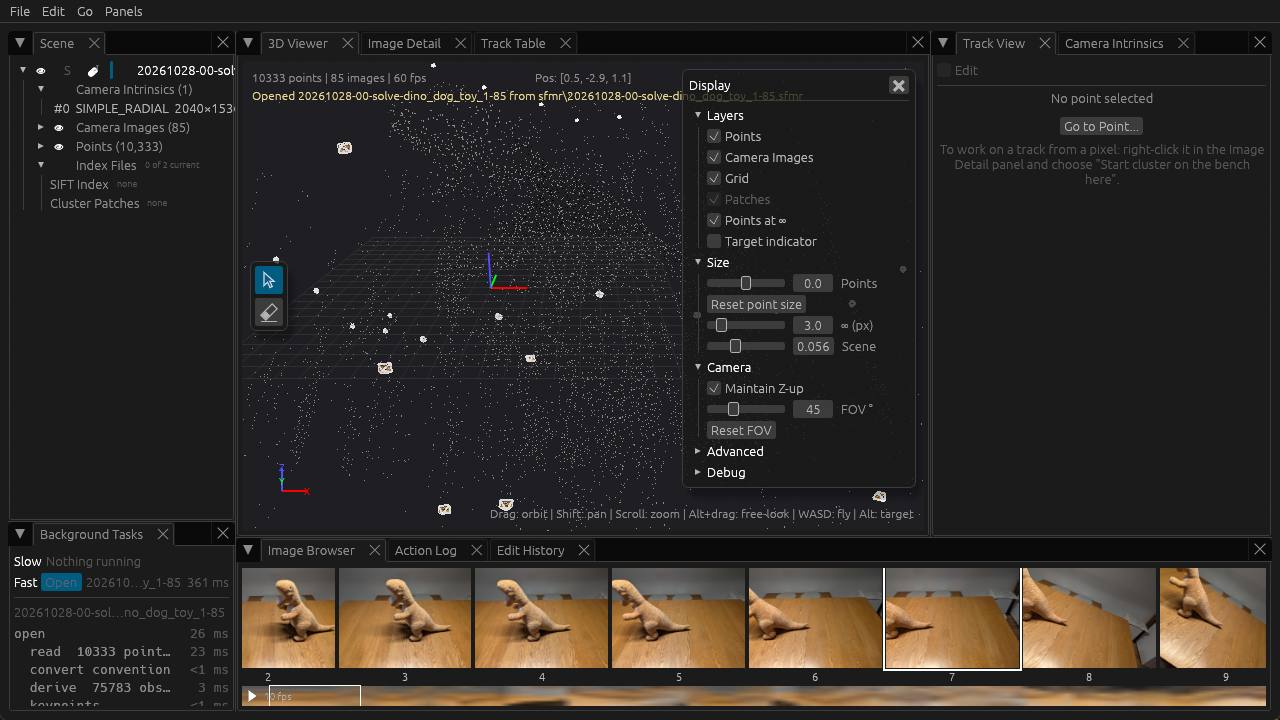
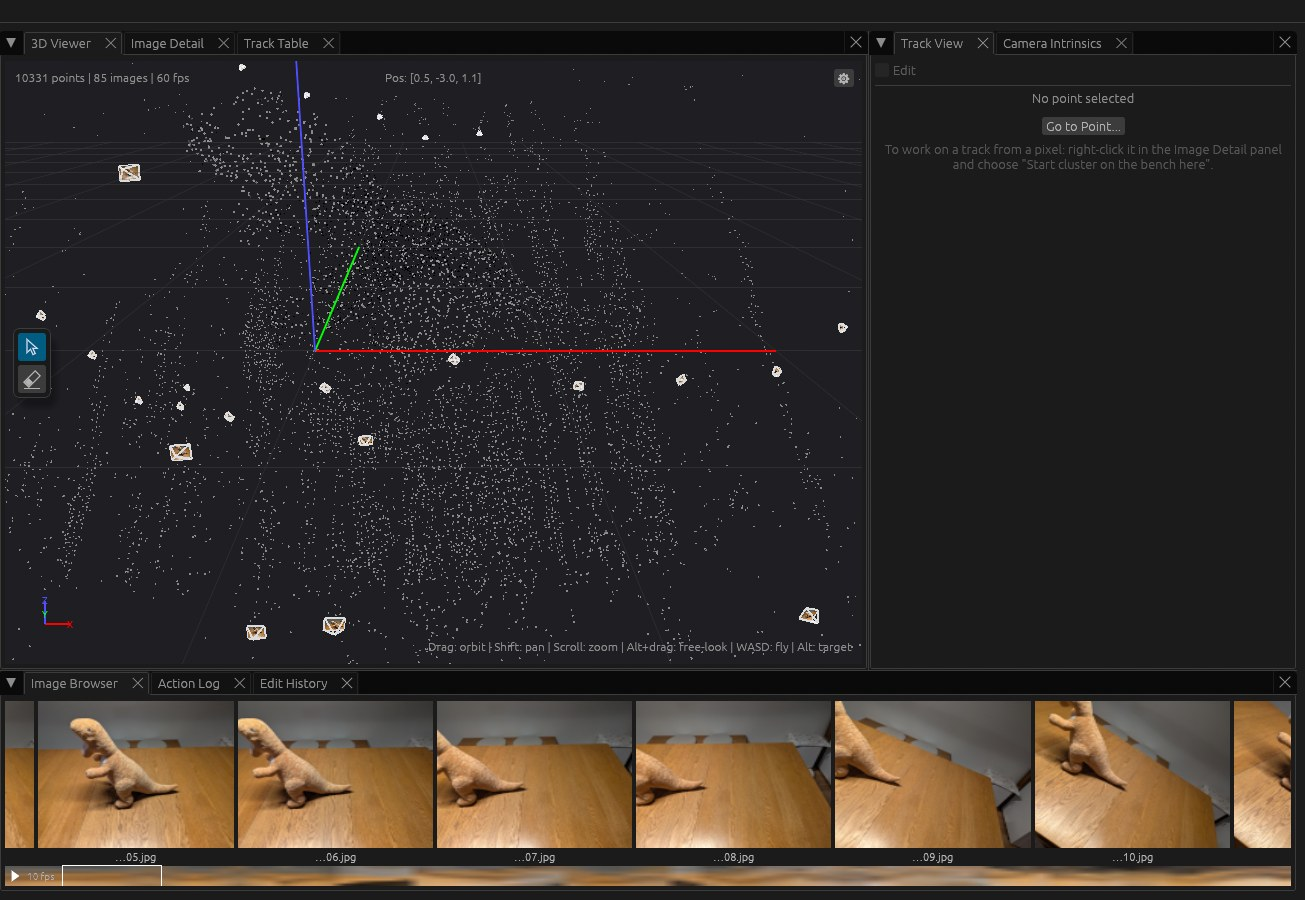
Re-capture Getting Started and the home page from one new shared run
Run the Getting Started steps on sfmtool main (e2f8e9a1c) on a copy of the
85 dino_dog_toy images; the file is 20261115-00-solve-dino_dog_toy_1-85.sfmr.

Getting Started: give a sparse git clone that downloads only the dataset's
directory; trim the ws init output to the workspace and feature_prefix_dir
lines; show the solve's new first line, Running global SfM with COLMAP's
global mapper..., and drop the paragraph on GLOMAP's history and the
explanation of the Dropped line; say why the two feature limits differ in one
sentence; cut the viewer note to the Linux Vulkan requirement; re-take the
screenshot.

Home page: put what SfM Tool is, why the project exists, what SfM is and
installation in the spec's order; drop the paragraph on feedforward methods
(VGGT), which a reader taking photographs does not need; replace the
seoul_bull walkthrough and its output with a three-command sketch that links
Getting Started; drop the empty inspect and analyze block; show the shared
run with a selected track. The author-owned passages keep their wording.

diff --git a/docs/tutorials/getting-started.md b/docs/tutorials/getting-started.md
@@ -1,39 +1,42 @@
 # Getting Started
 
-With a good set of photographs, use SfM Tool to create and view a sparse
-reconstruction in a few steps. SfM Tool extracts the SIFT features itself,
-and uses [COLMAP](https://colmap.github.io/), run through its Python bindings
-pycolmap, to match them and to solve.
+Make your first 3D reconstruction from a set of photographs and look at it in
+SfM Explorer. SfM Tool extracts the SIFT features itself, and uses
+[COLMAP](https://colmap.github.io/), run through its Python bindings pycolmap,
+to match them and to solve.
 
-We'll use the [dino dog toy dataset](https://github.com/sfmtool/sfmtool/tree/main/test-data/images/dino_dog_toy)
-— 85 photographs of a dog toy taken from different angles. The table and the
-toy have texture detail that gives a rich set of SIFT features for the solve.
+The photographs are the
+[dino dog toy dataset](https://github.com/sfmtool/sfmtool/tree/main/test-data/images/dino_dog_toy):
+85 photographs of a dog toy on a table, taken from different angles. The toy
+and the table have enough texture to give many SIFT features.
 
-## 1. Install and set up
+## 1. Install and get the photographs
 
 ```
 $ pip install sfmtool
 ```
 
-Create a workspace directory and copy your images into it.
+These commands download only the dataset's directory of the sfmtool
+repository, about 40 MB, and copy the photographs into `dino/images/`. They
+need [git](https://git-scm.com/).
 
 ```
+$ git clone --depth 1 --filter=blob:none --sparse https://github.com/sfmtool/sfmtool
+$ git -C sfmtool sparse-checkout set test-data/images/dino_dog_toy
 $ mkdir -p dino/images
-$ cp path/to/dino_dog_toy/*.jpg dino/images/
+$ cp sfmtool/test-data/images/dino_dog_toy/*.jpg dino/images/
 $ cd dino
 ```
 
 ## 2. Initialize the workspace
 
+A workspace is a directory whose settings, such as how features are
+extracted, every `sfm` command run in it uses.
+
 ```
 $ sfm ws init --max-features 4000
 Initialized workspace: .../dino
-Configuration file: .../dino/.sfm-workspace.json
-  feature_tool: sfmtool
-  contrast_threshold: 0.0067
-  octave_layers: 3
-  max_num_features: 4000
-  image_to_gray: 0.2126*R + 0.7152*G + 0.0722*B
+...
   feature_prefix_dir: features/sift-sfmtool-321fc2aaf62cc4697adafe94c11e4642
 ```
 
@@ -42,52 +45,38 @@ them under the `feature_prefix_dir` it prints, inside the images directory.
 
 ## 3. Solve
 
-Run the global SfM solver. It extracts the SIFT features, matches them across
-images, and solves for the camera poses and the 3D points. `--max-features 2000`
-uses at most 2000 of each image's features in the solve. The solve is COLMAP's
-global mapper, which was once the separate GLOMAP project and is now part of
-COLMAP; the first line of the output still names it GLOMAP.
+The solve extracts the features, matches them across the photographs, and
+works out where each camera stood and where the 3D points are.
+`--max-features 2000` uses the 2000 largest of each image's 4000 features:
+fewer features match faster, and the stored 4000 let a later solve use more
+without extracting them again.
 
 ```
 $ sfm solve -g images/ --max-features 2000
-Running global SfM with GLOMAP...
-Image files:
-  .../dino/images/dino_dog_toy_%02d.jpg (85 files, sequence 1-85)
+Running global SfM with COLMAP's global mapper...
 ...
-  Dropped 926 repeat observation(s) from 586 point(s)
 Found reconstruction 0:
-  Cameras: 1, Images: 85, Points: 10362
-Saved reconstruction to: .../dino/sfmr/20261114-00-solve-dino_dog_toy_1-85.sfmr
-Completed in 1m 17.81s
+  Cameras: 1, Images: 85, Points: 10331
+Saved reconstruction to: .../dino/sfmr/20261115-00-solve-dino_dog_toy_1-85.sfmr
+Completed in 54.25s
 ```
 
-The `...` stands for the feature extraction messages and about a hundred lines
-of COLMAP's own log, which include warnings such as *"Requested to use GPU for
-bundle adjustment, but COLMAP was compiled without CUDA support"* and *"Less
-than 50% of cameras have prior focal lengths"*. They do not mean the solve
-failed: the last lines say how many images and points it found and where it
-saved them. The `Dropped` line is about points that COLMAP observed more than
-once in the same photograph: SfM Tool keeps the observation with the lowest
-reprojection error in each such photograph, and the line counts the
-observations it dropped and the points they belonged to. The solve gives
-slightly different results each time it runs, so your counts and time will
-differ.
+The `...` stands for about a hundred lines of feature extraction and COLMAP
+log. Its warnings, such as *"Less than 50% of cameras have prior focal
+lengths"*, do not mean the solve failed: the last lines say how many images
+and points it found and where it saved them. The solve gives slightly
+different results each time it runs, so your counts and time will differ, and
+so will the date that starts the file name.
 
 ## 4. Explore in 3D
 
-Open the reconstruction in the SfM Explorer GUI by giving it the `.sfmr` file
-the solve wrote to the `sfmr/` directory. Its name starts with the date of the
-solve, so yours differs from the one below.
+Open the file the solve saved in SfM Explorer:
 
 ```
-$ sfm explorer sfmr/20261114-00-solve-dino_dog_toy_1-85.sfmr
+$ sfm explorer sfmr/20261115-00-solve-dino_dog_toy_1-85.sfmr
 ```
 
-!!! note
-    Use the latest version of sfmtool, which includes SfM Explorer. Its
-    automated window tests run on Windows, macOS and
-    Linux, but most hands-on use has been on Windows. On Linux it needs a
-    Vulkan driver.
+On Linux, SfM Explorer needs a Vulkan driver.
 
 ![SfM Explorer with dino dog toy reconstruction](images/dino-in-sfm-explorer.jpg)
 
@@ -95,7 +84,7 @@ $ sfm explorer sfmr/20261114-00-solve-dino_dog_toy_1-85.sfmr
 
 - [Viewing 3D Point Tracks](point-tracks.md): follow one 3D point through the
   photographs that see it, and move around the scene in SfM Explorer.
-- [Inspecting a Reconstruction](inspecting.md): summaries and per-image
-  statistics from the command line.
+- [Inspecting a Reconstruction](inspecting.md): check a reconstruction from
+  the command line.
 - [Converting Video to Image Sequences](video-to-images.md): turn a video into
   the images `sfm` works with.

diff --git a/docs/index.md b/docs/index.md
@@ -3,6 +3,12 @@
 SfM Tool is a command-line toolkit (`sfm`) and a desktop viewer (SfM Explorer) for
 building Structure from Motion reconstructions from photographs and inspecting them in 3D.
 
+SfM Tool builds heavily on the work of others, especially [COLMAP](https://colmap.github.io/)
+and [OpenCV](https://opencv.org/). Most of what's different is around the workflow you use
+to create SfM reconstructions.
+
+![SfM Explorer showing the dino dog toy reconstruction from Getting Started, with one 3D point selected and lines from it to the cameras that see it](images/sfm-explorer-dino-selected-track.jpg)
+
 ## About this Project
 
 The goal of this project is to make creating and exploring Structure from Motion (SfM) fun.
@@ -10,72 +16,6 @@ I had a bunch of vacation datasets of interesting scenes sitting around, ready f
 Gaussian splats, but using existing tools wasn't as fun as I imagined it could be. I
 also wanted a project for learning agentic AI coding tools with no expectations
 or restrictions. The result is this project, and I hope you enjoy it if you give it a try!
-
-SfM Tool builds heavily on the work of others, especially [COLMAP](https://colmap.github.io/)
-and [OpenCV](https://opencv.org/). Most of what's different is around the workflow you use
-to create SfM reconstructions.
-
-### The SfM Explorer GUI
-
-Once you have an .sfmr file, you can load it into the SfM Explorer GUI to view it in 3D
-with `sfm explorer <file>.sfmr`.
-In this screenshot, we've loaded the solution created by the below `sfm solve` command.
-By selecting a 3D point, we can view the track it comes from and visualize all the projected
-rays from the cameras.
-
-![SfM Explorer with Seoul Bull sample](./images/sfm-explorer-with-seoul-bull-tiny-images.jpg)
-
-### The `sfm` CLI command
-
-The CLI command `sfm` is the interface for creating and evaluating reconstructions.
-Every reconstruction must be performed within an SfM workspace. This opinionated approach
-makes it easier and more predictable to use the command, and means you don't need to
-repeat options redundantly while using it.
-
-Here's the simplest way to create a workspace and perform an SfM reconstruction with
-a small image dataset.
-
-```
-# Create the workspace and an images directory inside of it
-$ mkdir -p workspace/images
-
-# Copy the images into the workspace
-$ cp /path/to/images/*.jpg workspace/images/
-
-# Enter the workspace
-$ cd workspace
-
-# Initialize the workspace
-$ sfm ws init .
-Initialized workspace: .../workspace
-Configuration file: .../workspace/.sfm-workspace.json
-  feature_tool: sfmtool
-  contrast_threshold: 0.0067
-  octave_layers: 3
-  max_num_features: 8192
-  image_to_gray: 0.2126*R + 0.7152*G + 0.0722*B
-  feature_prefix_dir: features/sift-sfmtool-9017ec0d2c5dfc401da610578062b53d
-
-# Solve SfM for the specified images using the global solver
-$ sfm solve -g images/
-Running global SfM with GLOMAP...
-Image files:
-  .../workspace/images/seoul_bull_sculpture_%02d.jpg (17 files, sequence 1-17)
-...
-Saved reconstruction to: .../workspace/sfmr/20260404-00-solve-seoul_bull_sculpture_1-17.sfmr
-```
-
-Now you can use a variety of commands to inspect the reconstruction.
-
-```
-# Overview of the reconstruction
-$ sfm inspect sfmr/20260404-00-solve-seoul_bull_sculpture_1-17.sfmr
-...
-
-# Per-image reprojection error metrics
-$ sfm analyze --metrics sfmr/20260404-00-solve-seoul_bull_sculpture_1-17.sfmr
-...
-```
 
 ## What is Structure from Motion?
 
@@ -87,10 +27,6 @@ camera at the same time. The structure is a set of 3D points on surfaces that ar
 more than one camera. The motion is each photo's camera position and orientation; the solver
 also estimates each camera's intrinsics, such as focal length and lens distortion.
 
-Recent research is focused on ideas like using feedforward networks to go straight from images
-into 3D representations. This project is not about VGGT or similar techniques, but visualizing their
-output in SfM tool or using them as part of SfM would be interesting to explore.
-
 ## Installation
 
 ```
@@ -101,8 +37,19 @@ Wheels are published for Python 3.14 on x86-64 Linux, x86-64 Windows and Apple s
 macOS. Anywhere else, including Intel macOS, pip builds sfmtool from the source distribution, which
 needs a Rust toolchain at version 1.98 or newer.
 
-See the [getting started tutorial](tutorials/getting-started.md) for a full
-walkthrough.
+## The workflow
+
+In a directory with your photographs in `images/`, three commands make a
+reconstruction and show it:
+
+```
+sfm ws init                     # make the directory a workspace
+sfm solve -g images/            # solve the photographs into a .sfmr file in sfmr/
+sfm explorer sfmr/<file>.sfmr   # view it in SfM Explorer
+```
+
+Start with [Getting Started](tutorials/getting-started.md), which runs these
+on 85 example photographs and shows what each prints.
 
 ## About Me
 
